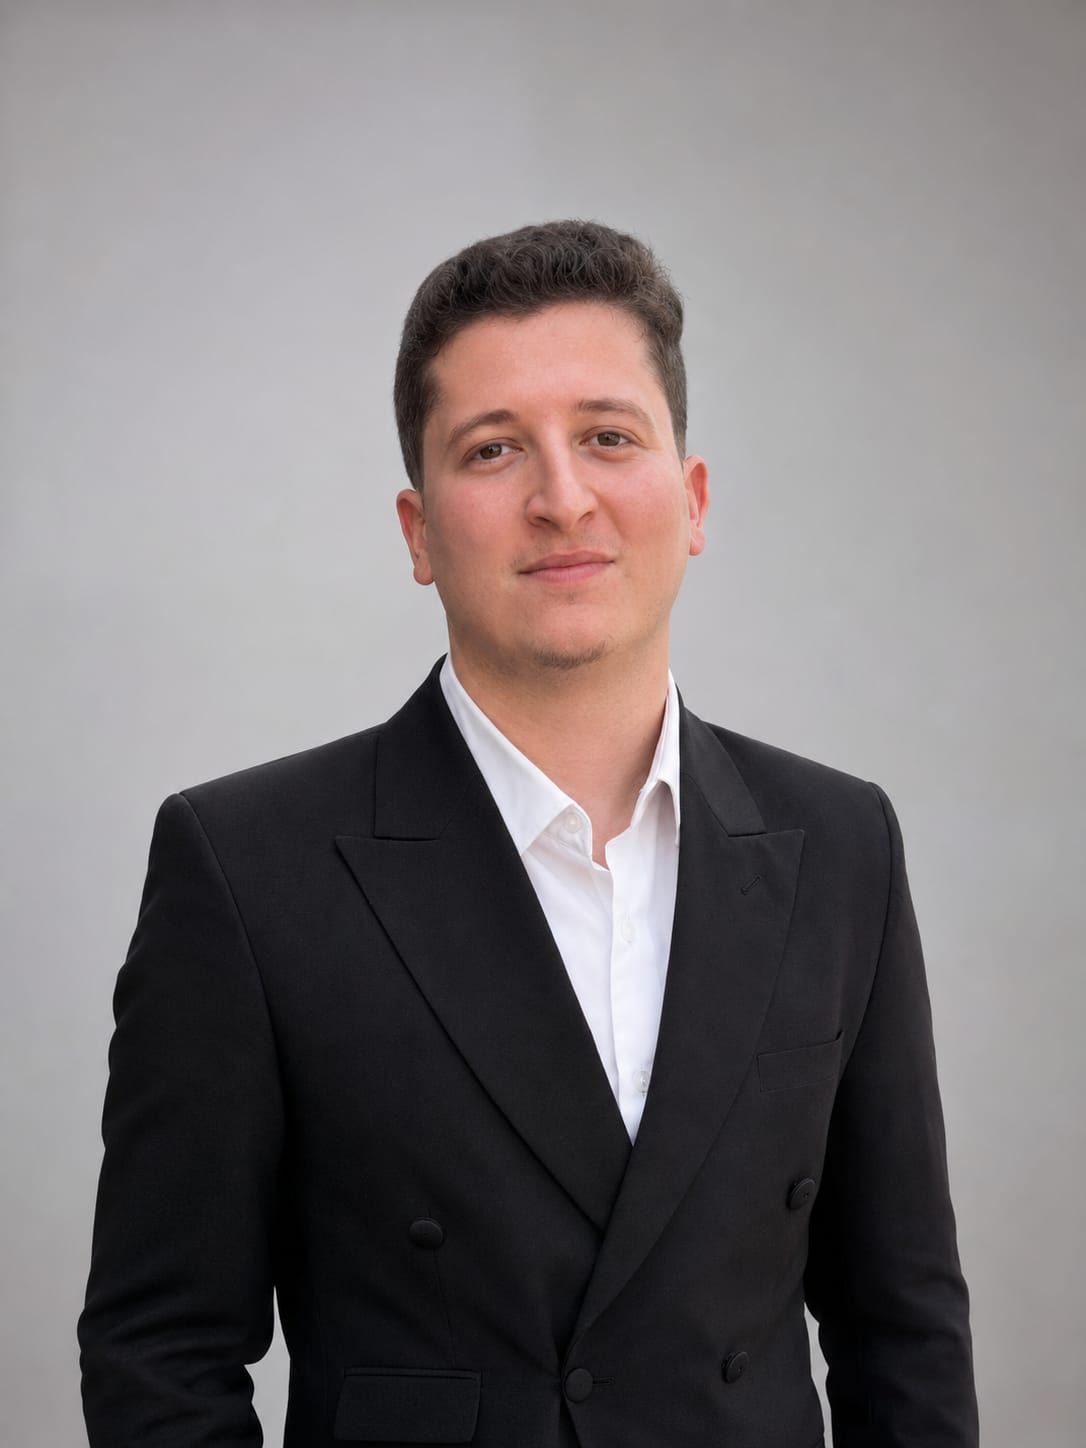
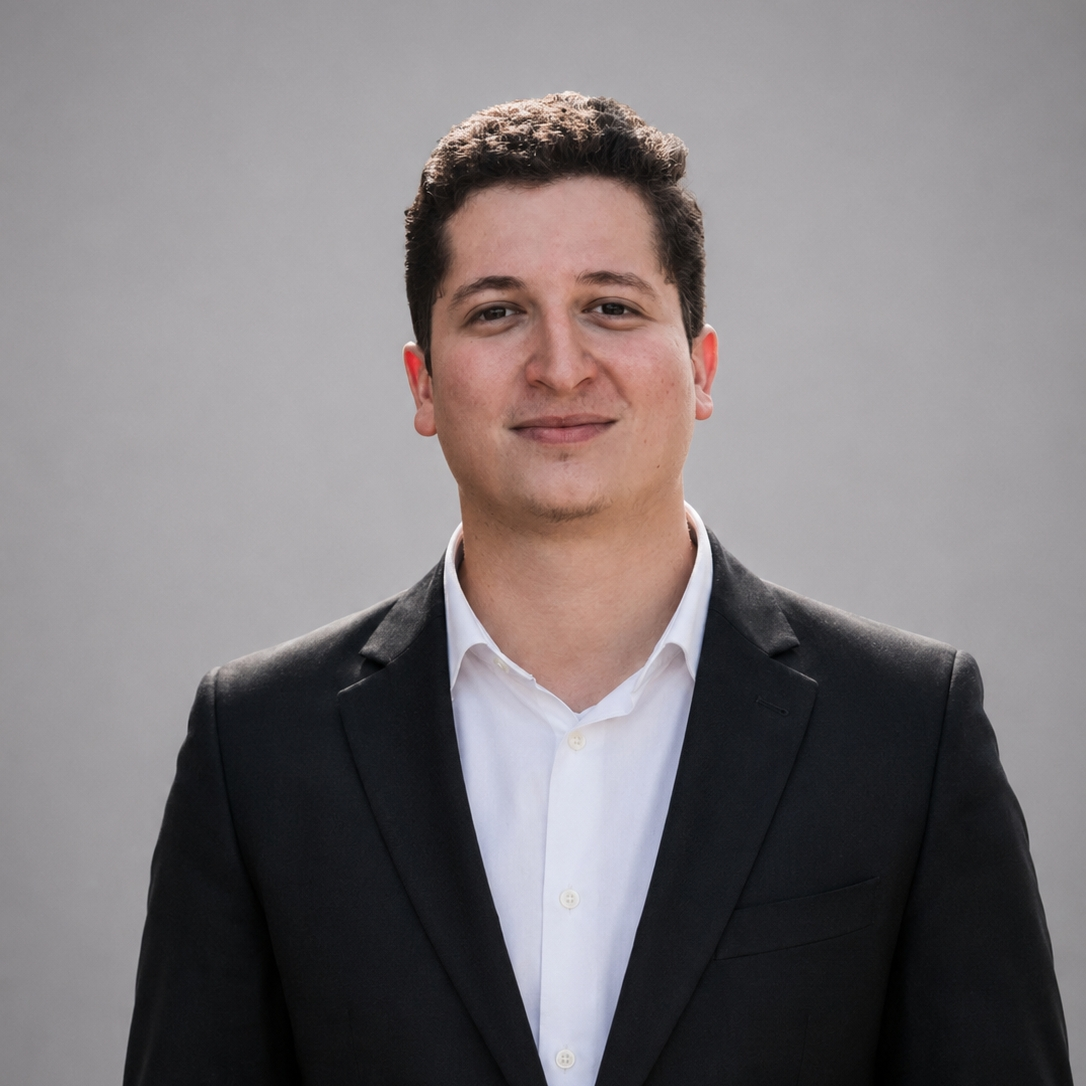
fainl

diff --git a/src/components/sections/Services.tsx b/src/components/sections/Services.tsx
@@ -13,40 +13,34 @@ const getServices = (t: any): { icon: LucideIcon; title: string; body: string; t
     tag: "01",
   },
   {
-    icon: Globe,
+    icon: Smartphone,
     title: t('services.list.1.title'),
     body: t('services.list.1.body'),
     tag: "02",
   },
   {
-    icon: Smartphone,
+    icon: Palette,
     title: t('services.list.2.title'),
     body: t('services.list.2.body'),
     tag: "03",
   },
   {
-    icon: Palette,
+    icon: Cloud,
     title: t('services.list.3.title'),
     body: t('services.list.3.body'),
     tag: "04",
   },
   {
-    icon: Cloud,
+    icon: GitBranch,
     title: t('services.list.4.title'),
     body: t('services.list.4.body'),
     tag: "05",
   },
   {
-    icon: GitBranch,
+    icon: Brain,
     title: t('services.list.5.title'),
     body: t('services.list.5.body'),
     tag: "06",
-  },
-  {
-    icon: Brain,
-    title: t('services.list.6.title'),
-    body: t('services.list.6.body'),
-    tag: "07",
   },
 ];
 

diff --git a/index.html b/index.html
@@ -5,19 +5,19 @@
     <link rel="icon" type="image/png" href="/favicon.png" />
     <meta name="viewport" content="width=device-width, initial-scale=1.0" />
     <meta name="theme-color" content="#0d1117" />
-    <title>VIAARA — Custom Software Development & Digital Solutions</title>
-    <meta name="description" content="VIAARA is a software engineering company specializing in custom software development, web applications, mobile apps, cloud solutions, AI systems, and digital transformation services." />
+    <title>VIAARA TECH | Software Solutions Company</title>
+    <meta name="description" content="VIAARA TECH delivers custom software development, AI solutions, web applications, mobile applications, cloud solutions, DevOps consulting, and digital transformation services." />
     <meta name="robots" content="index, follow" />
     <!-- Open Graph -->
     <meta property="og:type" content="website" />
     <meta property="og:url" content="https://viaara.tech/" />
-    <meta property="og:title" content="VIAARA — Custom Software Development & Digital Solutions" />
-    <meta property="og:description" content="VIAARA is a software engineering company specializing in custom software development, web applications, mobile apps, cloud solutions, AI systems, and digital transformation services." />
+    <meta property="og:title" content="VIAARA TECH | Software Solutions Company" />
+    <meta property="og:description" content="VIAARA TECH delivers custom software development, AI solutions, web applications, mobile applications, cloud solutions, DevOps consulting, and digital transformation services." />
     <meta property="og:image" content="https://viaara.tech/og-image.jpg" />
     <!-- Twitter -->
     <meta name="twitter:card" content="summary_large_image" />
-    <meta name="twitter:title" content="VIAARA — Custom Software Development & Digital Solutions" />
-    <meta name="twitter:description" content="VIAARA is a software engineering company specializing in custom software development, web applications, mobile apps, cloud solutions, AI systems, and digital transformation services." />
+    <meta name="twitter:title" content="VIAARA TECH | Software Solutions Company" />
+    <meta name="twitter:description" content="VIAARA TECH delivers custom software development, AI solutions, web applications, mobile applications, cloud solutions, DevOps consulting, and digital transformation services." />
     <!-- Fonts -->
     <link rel="preconnect" href="https://fonts.googleapis.com" />
     <link rel="preconnect" href="https://fonts.gstatic.com" crossorigin />

diff --git a/src/components/sections/Contact.tsx b/src/components/sections/Contact.tsx
@@ -1,6 +1,6 @@
 import { Reveal } from "../Reveal";
 import { Logo } from "../Logo";
-import { ArrowRight, Mail, MapPin, Github, Twitter, Linkedin, Phone } from "lucide-react";
+import { ArrowRight, Mail, MapPin, Facebook, Instagram, Linkedin, Phone } from "lucide-react";
 import orb from "@/assets/orb-2.jpg";
 import { useState, useRef, type FormEvent } from "react";
 import { motion, useScroll, useTransform, useReducedMotion } from "framer-motion";
@@ -16,9 +16,9 @@ const getFooterLinks = (t: any) => [
 ];
 
 const SOCIAL_LINKS = [
-  { label: "GitHub",   href: "https://github.com",   icon: Github },
-  { label: "Twitter",  href: "https://twitter.com",  icon: Twitter },
-  { label: "LinkedIn", href: "https://linkedin.com", icon: Linkedin },
+  { label: "LinkedIn", href: "https://www.linkedin.com/company/viaara-tech-egypt/posts/?feedView=all", icon: Linkedin },
+  { label: "Instagram", href: "https://www.instagram.com/viaara_tech/", icon: Instagram },
+  { label: "Facebook", href: "https://www.facebook.com/profile.php?id=61590481892370", icon: Facebook },
 ];
 
 /* ── Form field ── */

diff --git a/src/routes/index.tsx b/src/routes/index.tsx
@@ -14,17 +14,17 @@ import { Contact } from "@/components/sections/Contact";
 export const Route = createFileRoute("/")({
   head: () => ({
     meta: [
-      { title: "VIAARA — Custom Software House & Systems Engineering" },
+      { title: "VIAARA TECH | Software Solutions Company" },
       {
         name: "description",
         content:
-          "VIAARA is an elite software engineering agency developing scalable web apps, mobile apps, enterprise ERP solutions, and digital products for ambitious brands.",
+          "VIAARA TECH delivers custom software development, AI solutions, web applications, mobile applications, cloud solutions, DevOps consulting, and digital transformation services.",
       },
-      { property: "og:title", content: "VIAARA — Custom Software House & Systems Engineering" },
+      { property: "og:title", content: "VIAARA TECH | Software Solutions Company" },
       {
         property: "og:description",
         content:
-          "High-performance custom software, web platforms, and enterprise systems engineered with craft from concept to production at scale.",
+          "VIAARA TECH delivers custom software development, AI solutions, web applications, mobile applications, cloud solutions, DevOps consulting, and digital transformation services.",
       },
       { property: "og:type", content: "website" },
       { name: "twitter:card", content: "summary_large_image" },

diff --git a/src/routes/about.tsx b/src/routes/about.tsx
@@ -11,13 +11,13 @@ import { Contact } from "@/components/sections/Contact";
 export const Route = createFileRoute("/about")({
   head: () => ({
     meta: [
-      { title: "About — VIAARA Software Engineering" },
+      { title: "About | VIAARA TECH — Software Solutions Company" },
       {
         name: "description",
         content:
-          "Viaara Tech is a software solutions company focused on helping organizations transform complex business challenges into scalable, secure, and efficient digital solutions.",
+          "VIAARA TECH delivers custom software development, AI solutions, web applications, mobile applications, cloud solutions, DevOps consulting, and digital transformation services.",
       },
-      { property: "og:title", content: "About — VIAARA Software Engineering" },
+      { property: "og:title", content: "About | VIAARA TECH — Software Solutions Company" },
     ],
   }),
   component: AboutPage,